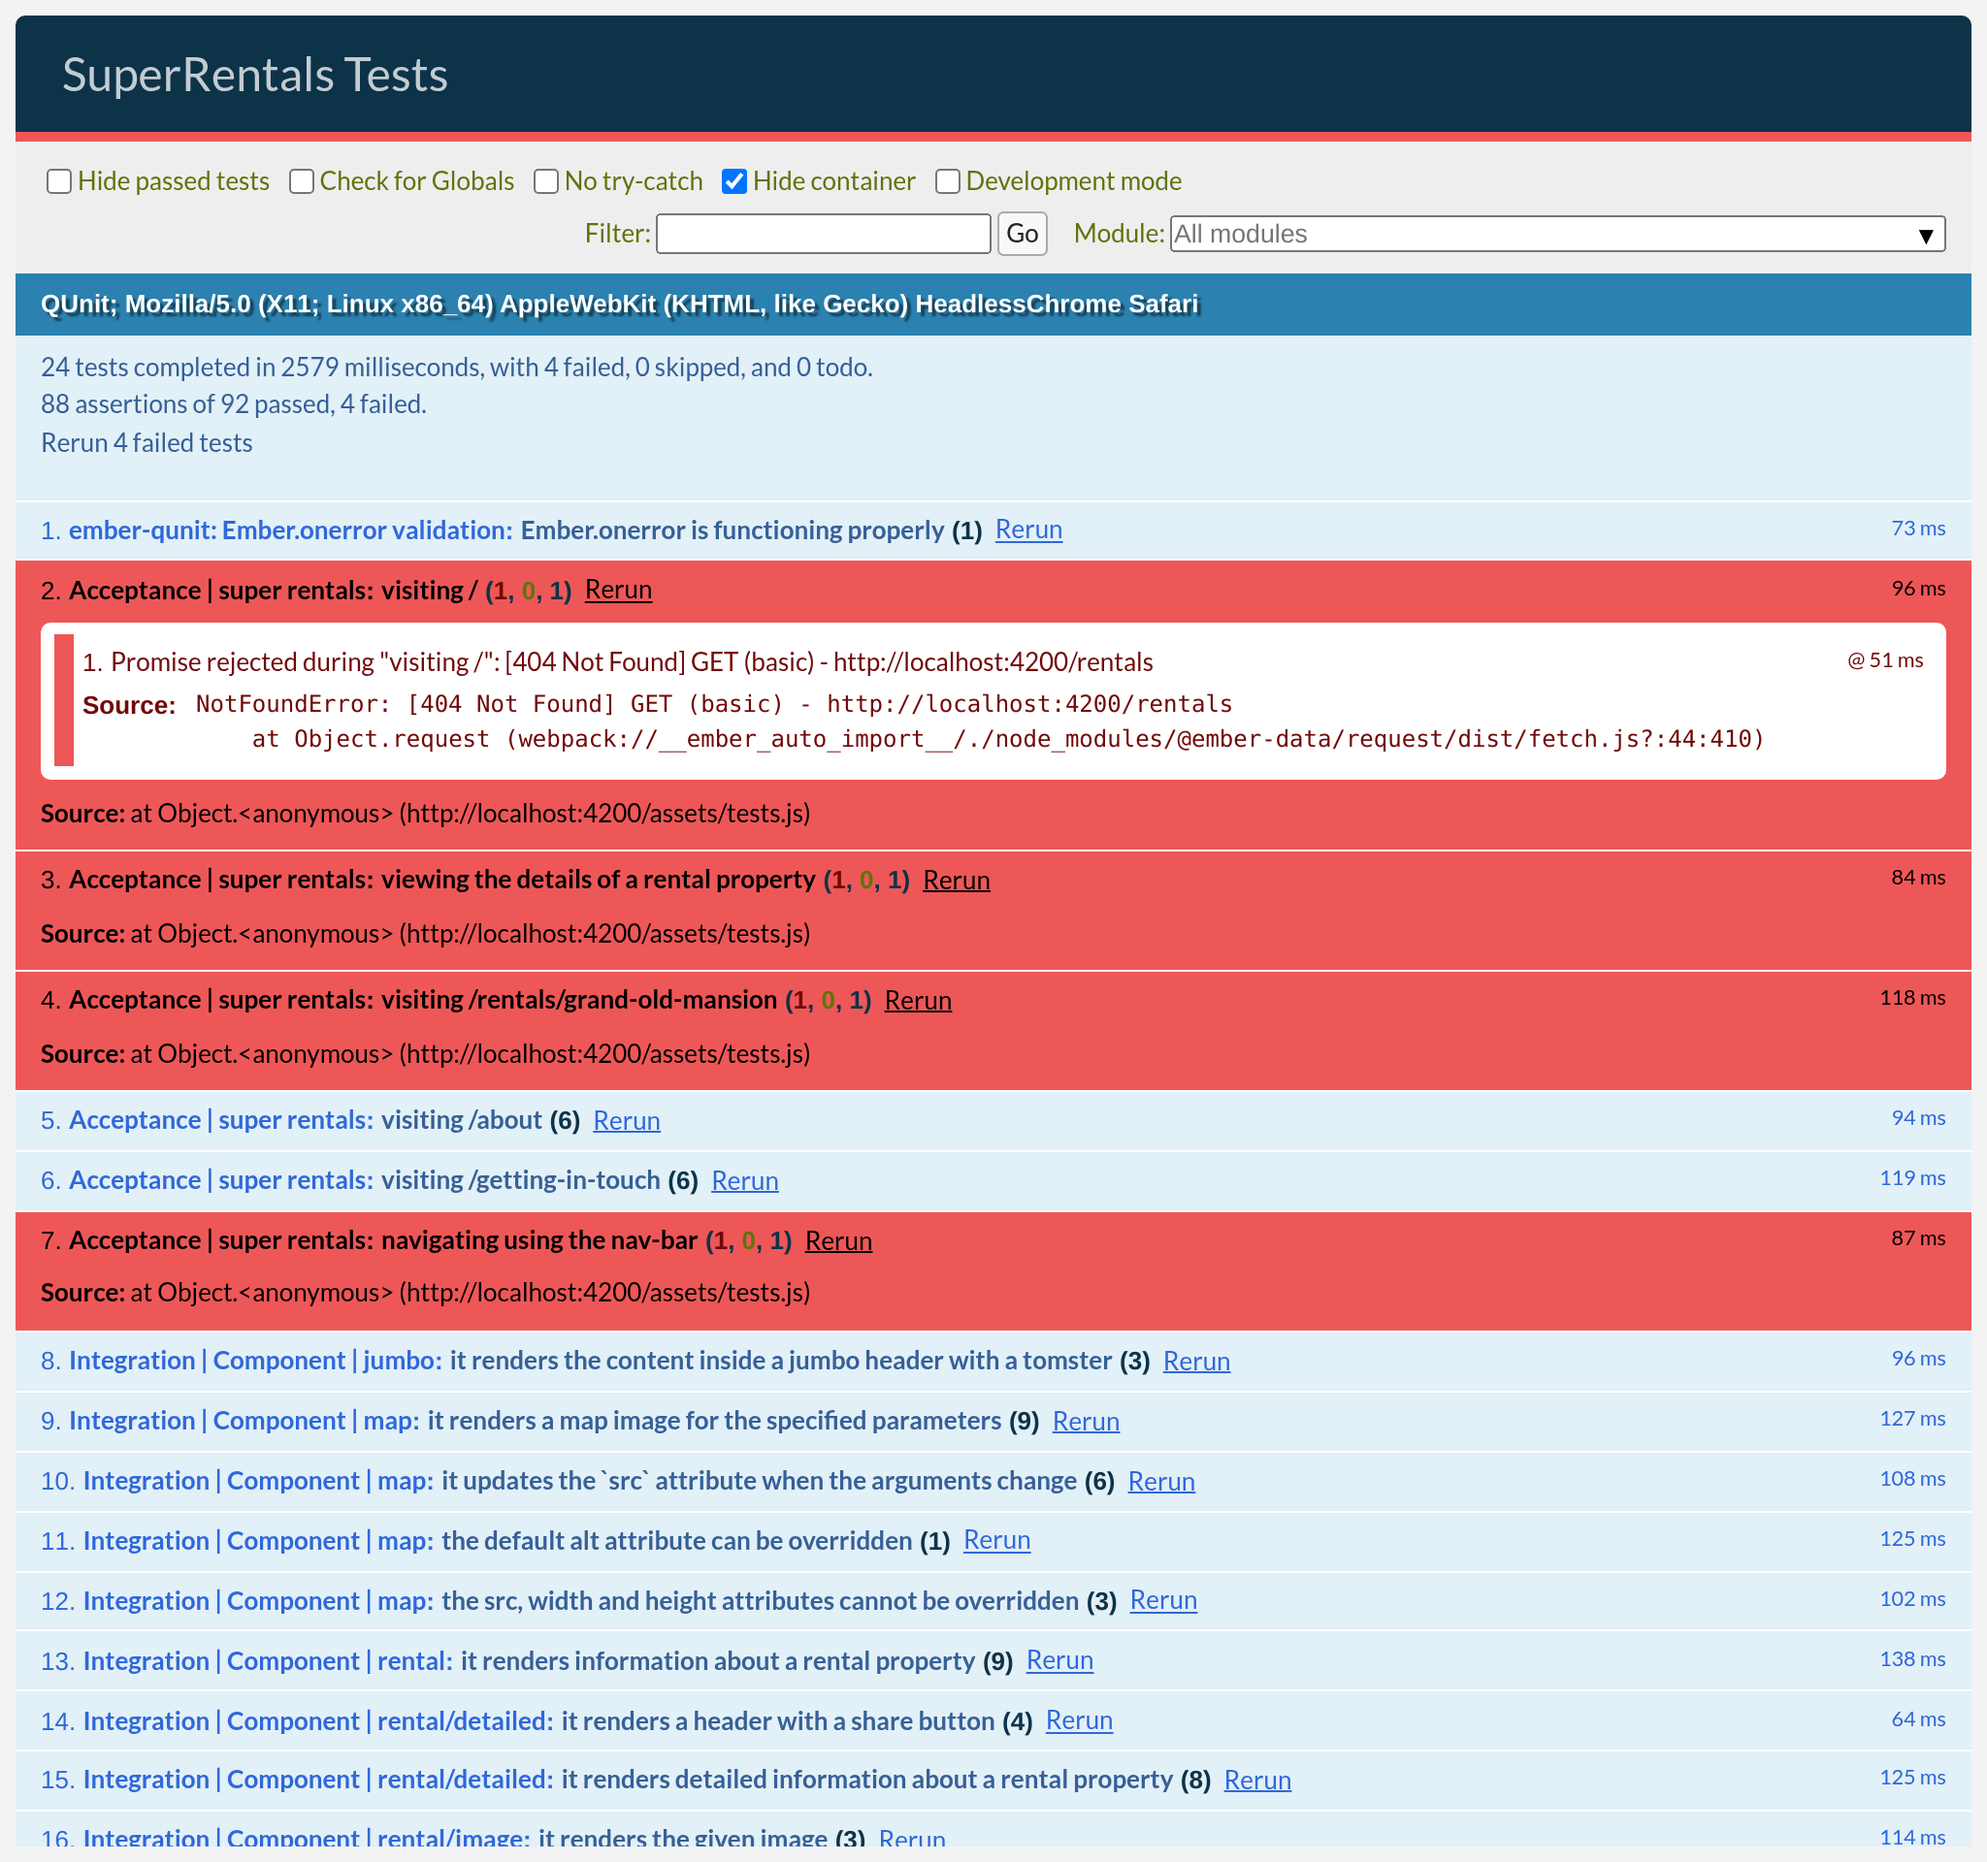
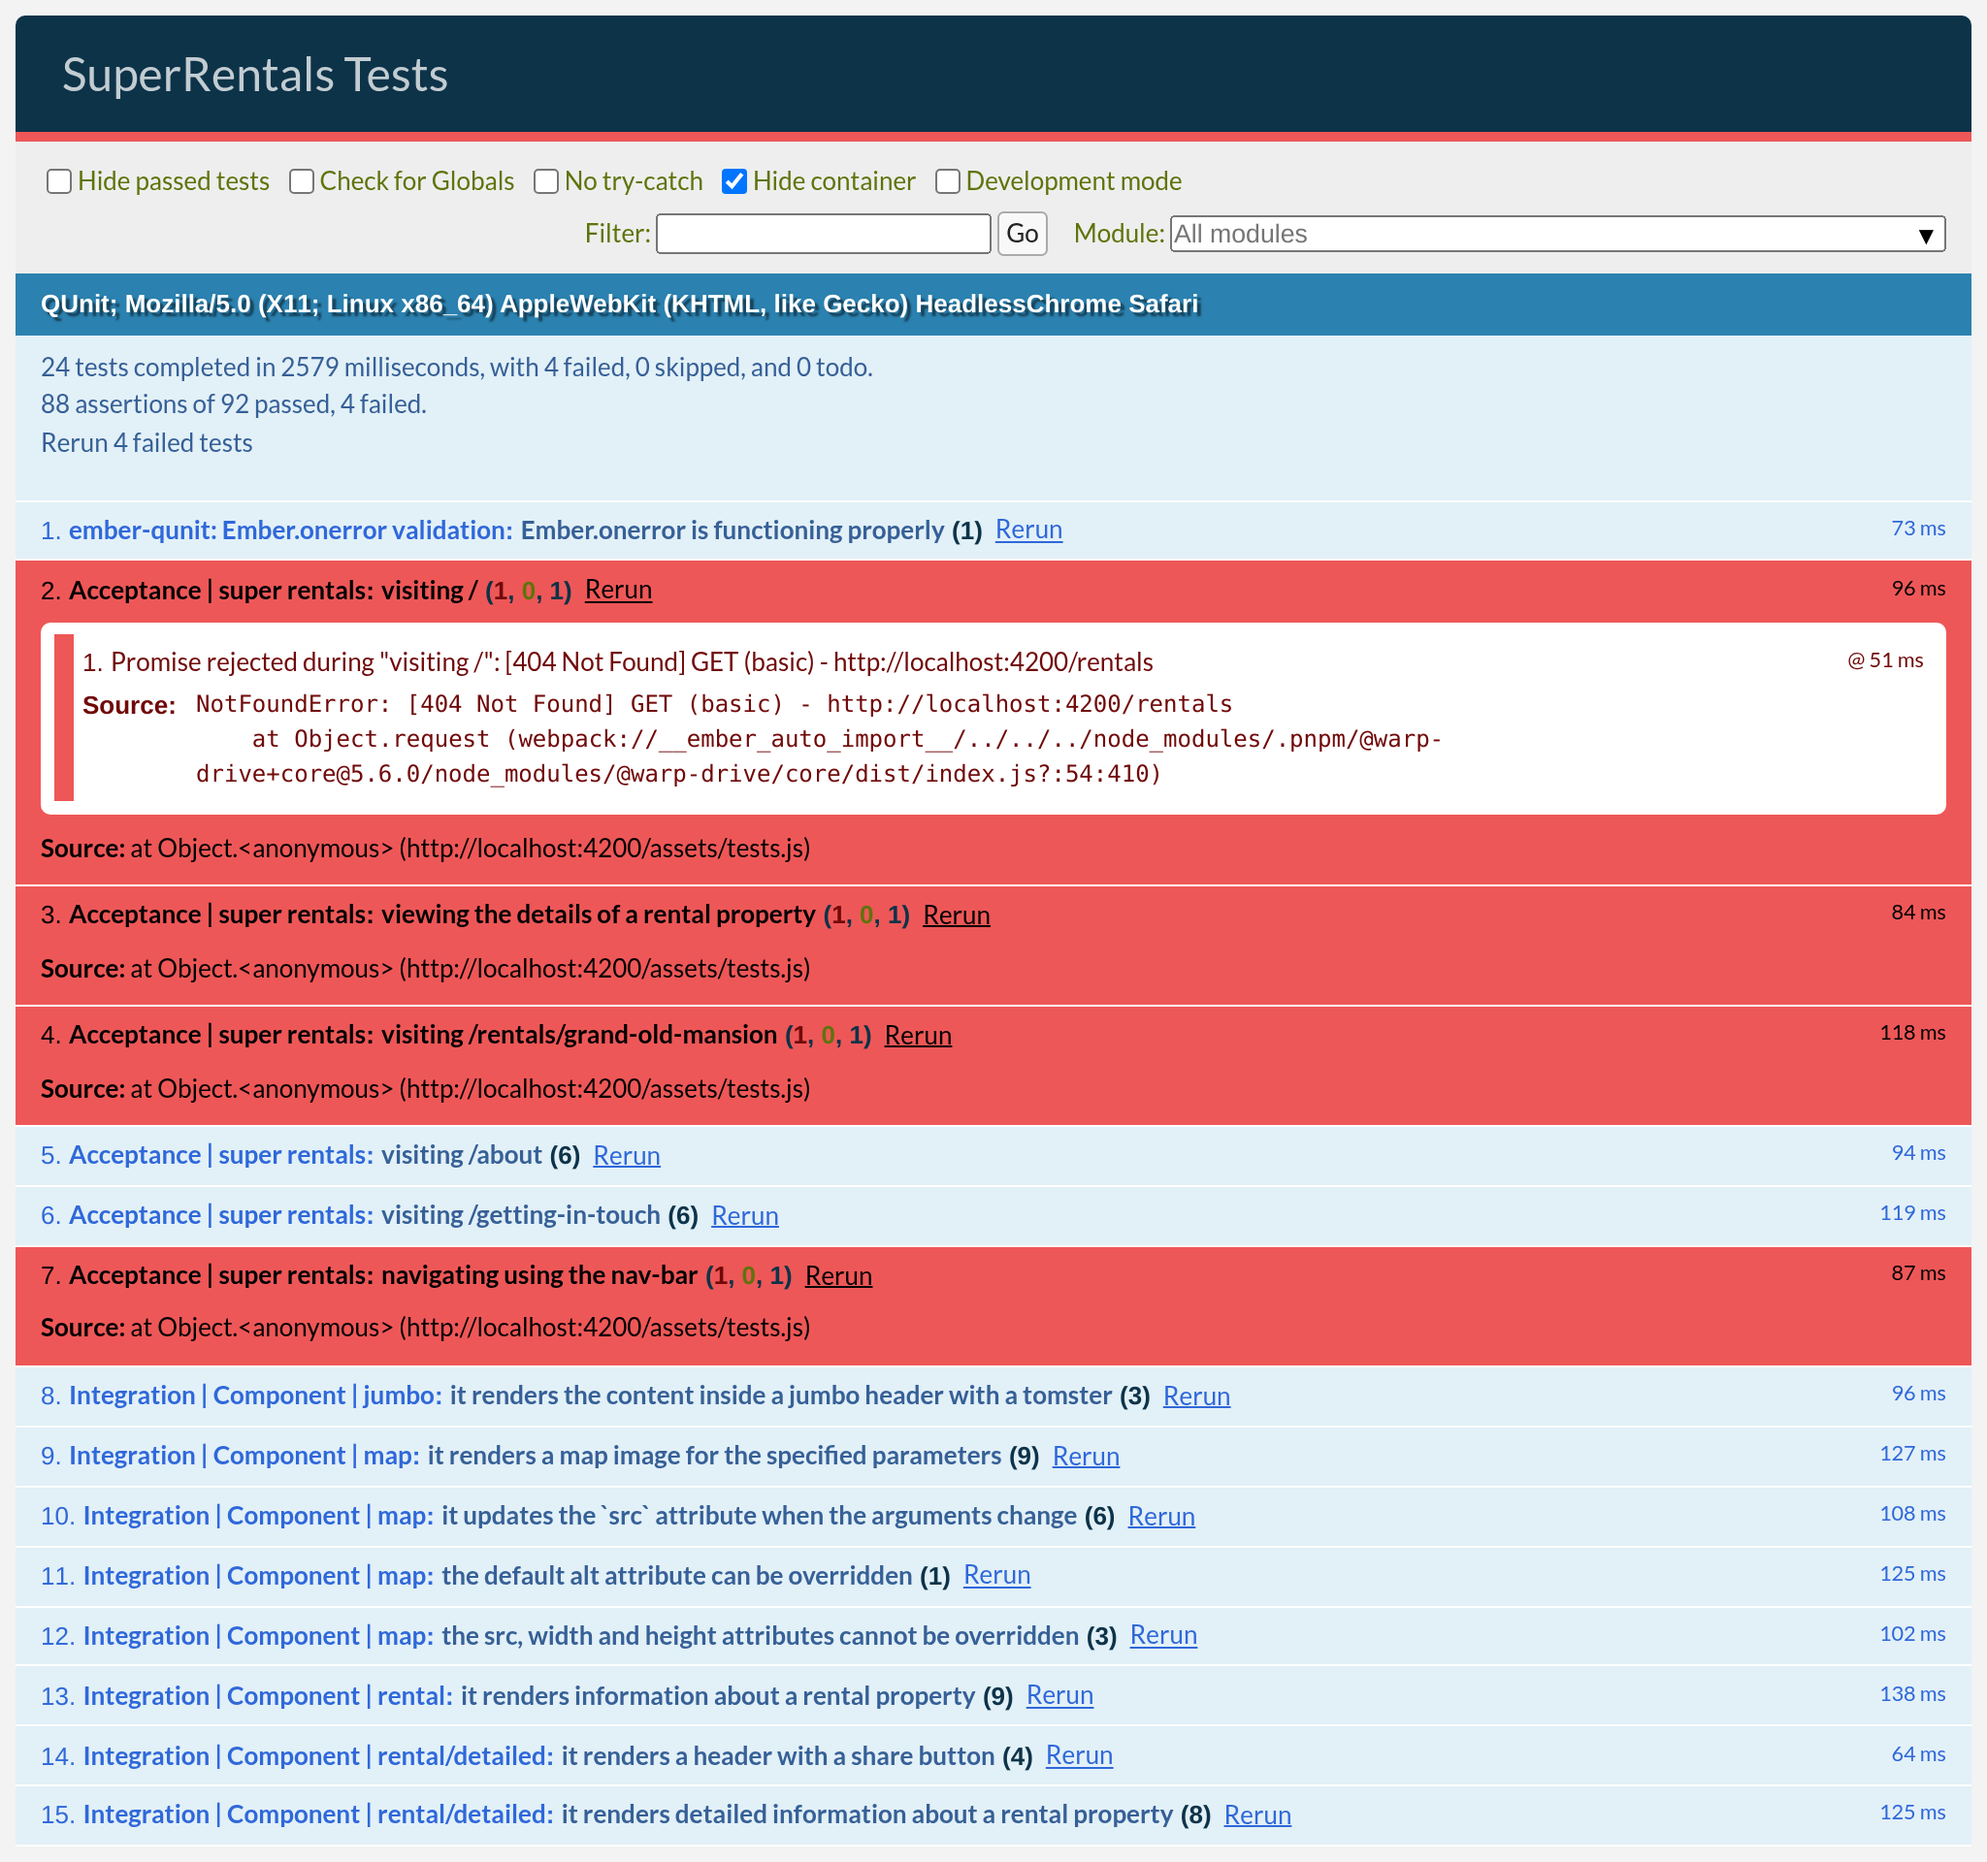
Suppress deprecation from ember-data to make tutorial work until the blueprint update in 6.7
---

Commit:  ember-learn/super-rentals-tutorial@6b7946c1d3dc2644ea46afa9c9e27462b6bfbac6
Script:  https://github.com/ember-learn/super-rentals-tutorial/blob/6b7946c1d3dc2644ea46afa9c9e27462b6bfbac6/.github/workflows/build.yml
Logs:    https://github.com/ember-learn/super-rentals-tutorial/commit/6b7946c1d3dc2644ea46afa9c9e27462b6bfbac6/checks

Changed region(s): [[0.0, 0.375, 1.0, 1.0], [0.9375, 0.4688, 0.9688, 0.5]]

diff --git a/guides/release/tutorial/part-1/component-basics.md b/guides/release/tutorial/part-1/component-basics.md
@@ -58,16 +58,15 @@ When invoking a component, Ember will replace the component tag with the content
 
 Let's try it out by editing the index template:
 
-```handlebars { data-filename="app/templates/index.hbs" data-diff="-1,-2,+3,+7,-8" }
+```handlebars { data-filename="app/templates/index.hbs" data-diff="-1,-2,+3,-7,+8" }
 <div class="jumbo">
   <div class="right tomster"></div>
 <Jumbo>
   <h2>Welcome to Super Rentals!</h2>
   <p>We hope you find exactly what you're looking for in a place to stay.</p>
   <LinkTo @route="about" class="button">About Us</LinkTo>
-</Jumbo>
 </div>
-
+</Jumbo>
 ```
 
 ## Refactoring Existing Code
@@ -80,7 +79,7 @@ After saving the changes, your page should automatically reload, and, _voilà_..
 
 Let's do the same for our other two pages as well.
 
-```handlebars { data-filename="app/templates/about.hbs" data-diff="-1,-2,+3,+11,-12" }
+```handlebars { data-filename="app/templates/about.hbs" data-diff="-1,-2,+3,-11,+12" }
 <div class="jumbo">
   <div class="right tomster"></div>
 <Jumbo>
@@ -91,11 +90,11 @@ Let's do the same for our other two pages as well.
     AND building Ember applications.
   </p>
   <LinkTo @route="contact" class="button">Contact Us</LinkTo>
-</Jumbo>
 </div>
+</Jumbo>
 ```
 
-```handlebars { data-filename="app/templates/contact.hbs" data-diff="-1,-2,+3,+19,-20" }
+```handlebars { data-filename="app/templates/contact.hbs" data-diff="-1,-2,+3,-19,+20" }
 <div class="jumbo">
   <div class="right tomster"></div>
 <Jumbo>
@@ -114,8 +113,8 @@ Let's do the same for our other two pages as well.
     <a href="mailto:superrentalsrep@emberjs.com">superrentalsrep@emberjs.com</a>
   </address>
   <LinkTo @route="about" class="button">About</LinkTo>
-</Jumbo>
 </div>
+</Jumbo>
 ```
 
 After saving, everything should look exactly the same as before, and all the tests should still pass. Very nice!

diff --git a/guides/release/tutorial/part-2/ember-data.md b/guides/release/tutorial/part-2/ember-data.md
@@ -346,6 +346,19 @@ setBuildURLConfig({
   namespace: 'api',
 });
 
+/* This is to account for a deprecation that shipped in ember-cli 6.4
+   with ember-data v5.6 which needs a blueprint update to avoid the
+   deprecation that is otherwise irrelevant for tutorial purposes.
+*/
+import { registerDeprecationHandler } from '@ember/debug';
+registerDeprecationHandler((message, options, next) => {
+  if (message.includes('Using WarpDrive with EmberJS requires')) {
+    return;
+  } else {
+    next(message, options);
+  }
+});
+
 if (macroCondition(isDevelopingApp())) {
   importSync('./deprecation-workflow');
 }

diff --git a/guides/release/tutorial/part-1/orientation.md b/guides/release/tutorial/part-1/orientation.md
@@ -24,7 +24,7 @@ To verify that your installation was successful, run:
 
 ```shell
 $ ember --version
-ember-cli: 6.4.0
+ember-cli: 6.7.0
 node: 18.20.8
 os: linux x64
 ```
@@ -37,8 +37,8 @@ We can create a new project using Ember CLI's `new` command. It follows the patt
 
 ```shell
 $ ember new super-rentals --lang en
-installing app
-Ember CLI v6.4.0
+installing classic-build-app-blueprint
+@ember-tooling/classic-build-app-blueprint v6.7.0
 
 Creating a new Ember app in /home/runner/work/super-rentals-tutorial/super-rentals-tutorial/dist/code/super-rentals:
   create .editorconfig
